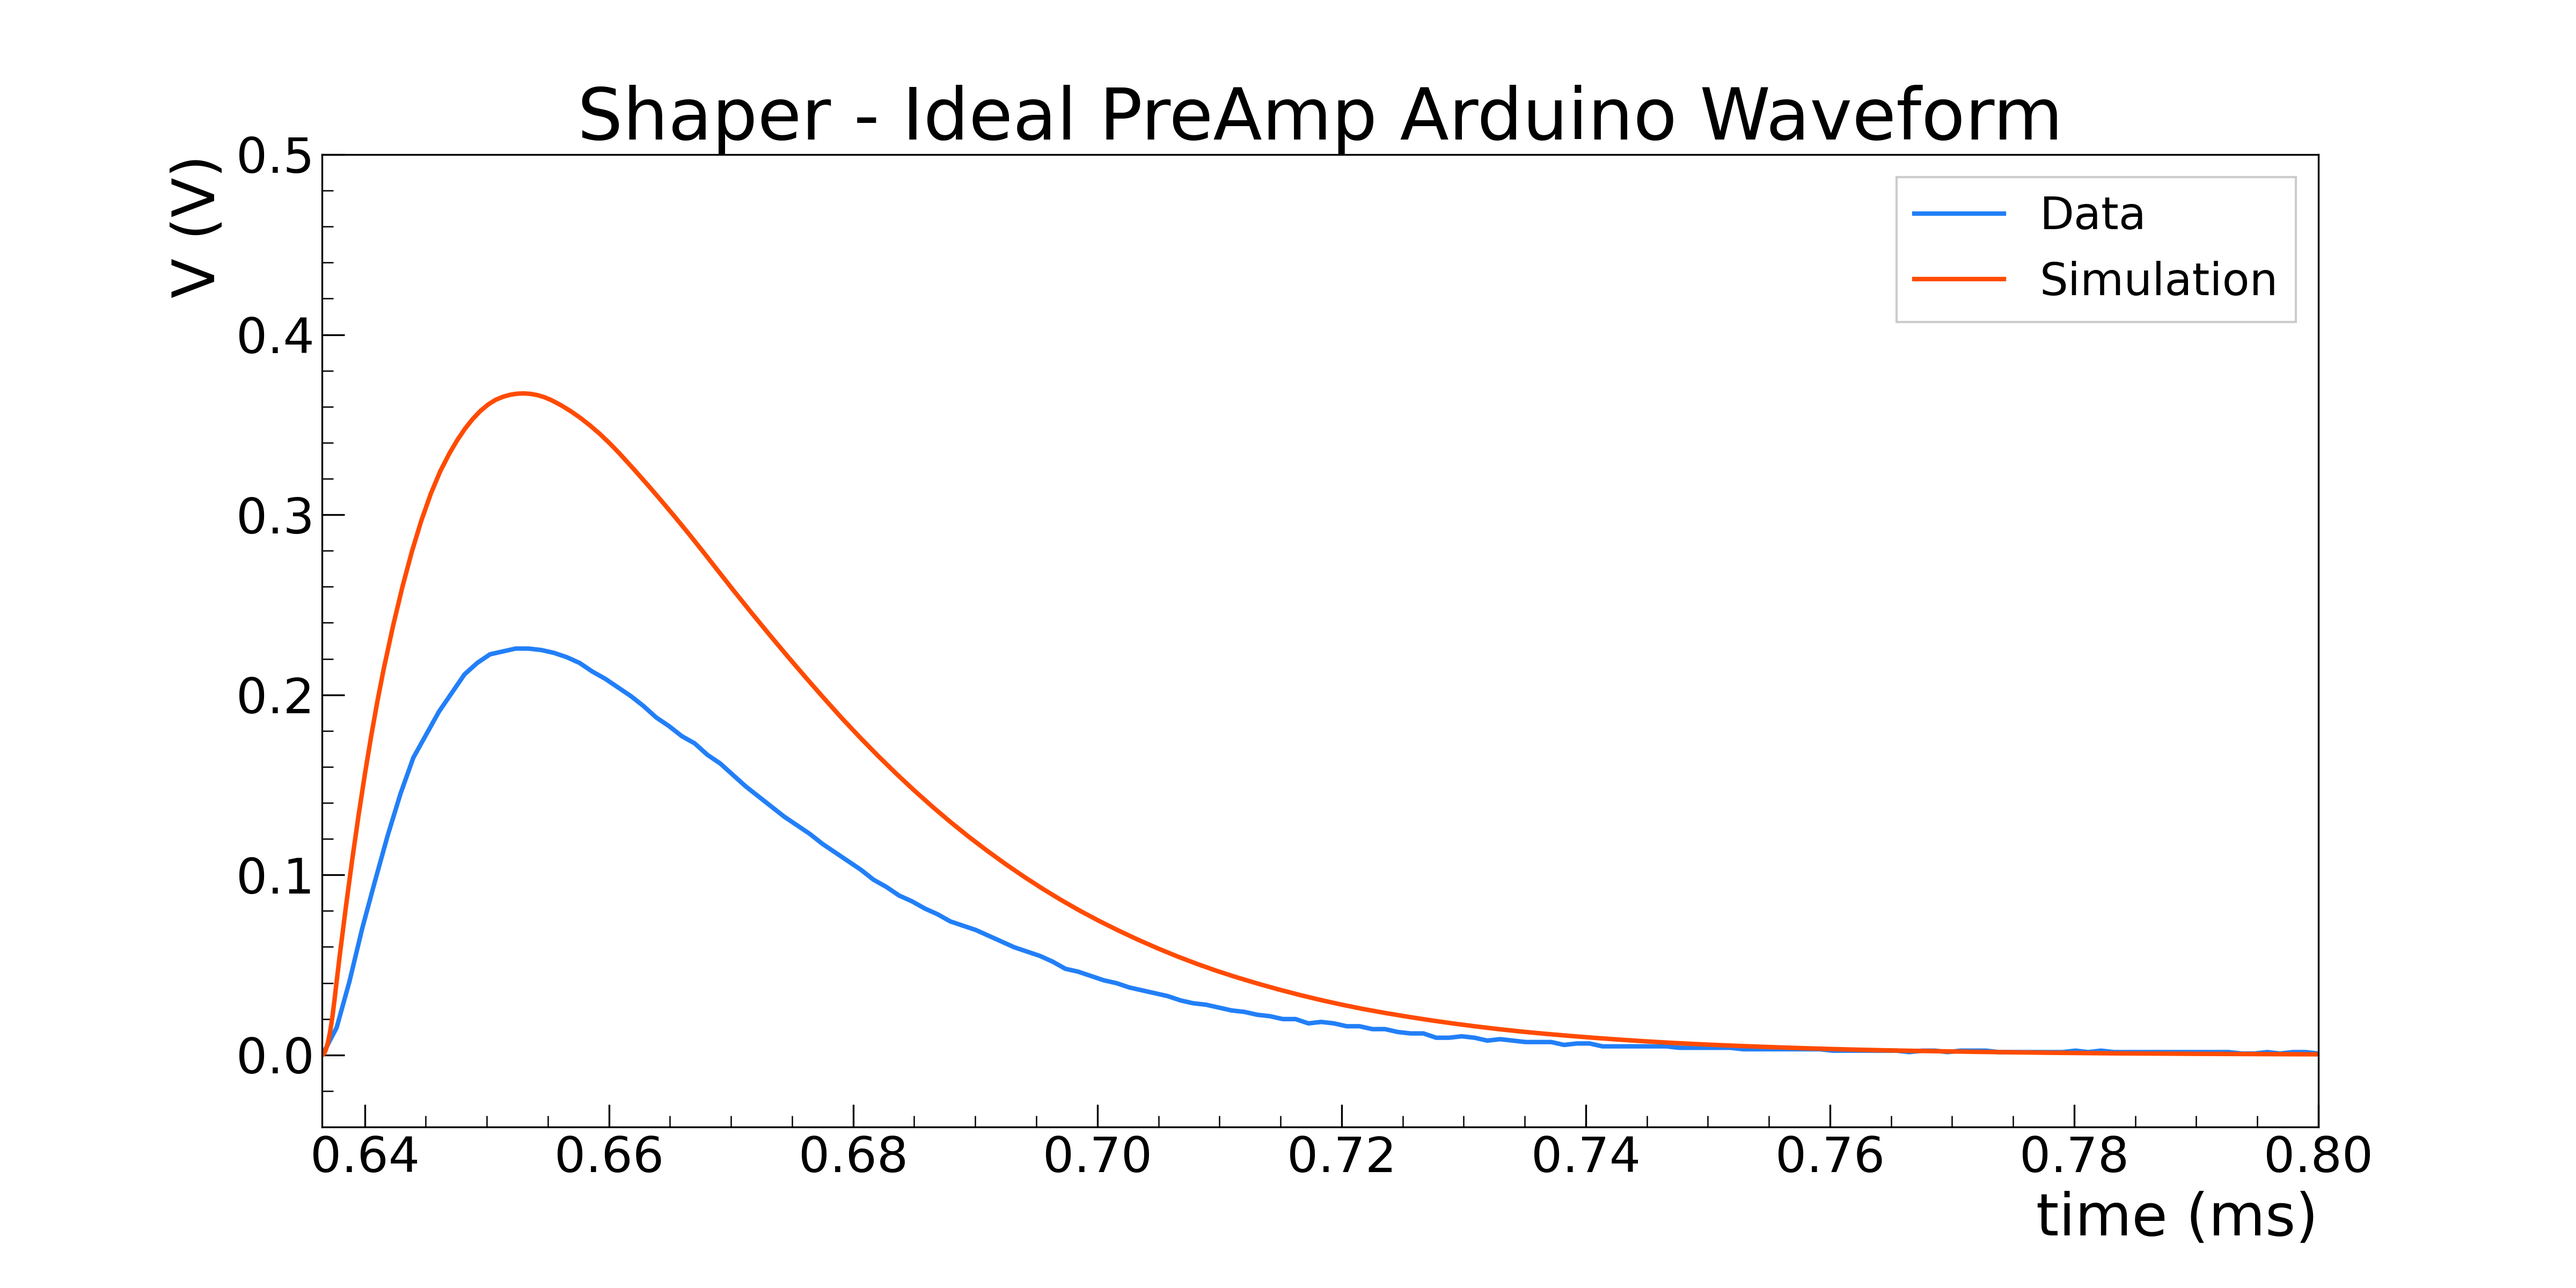
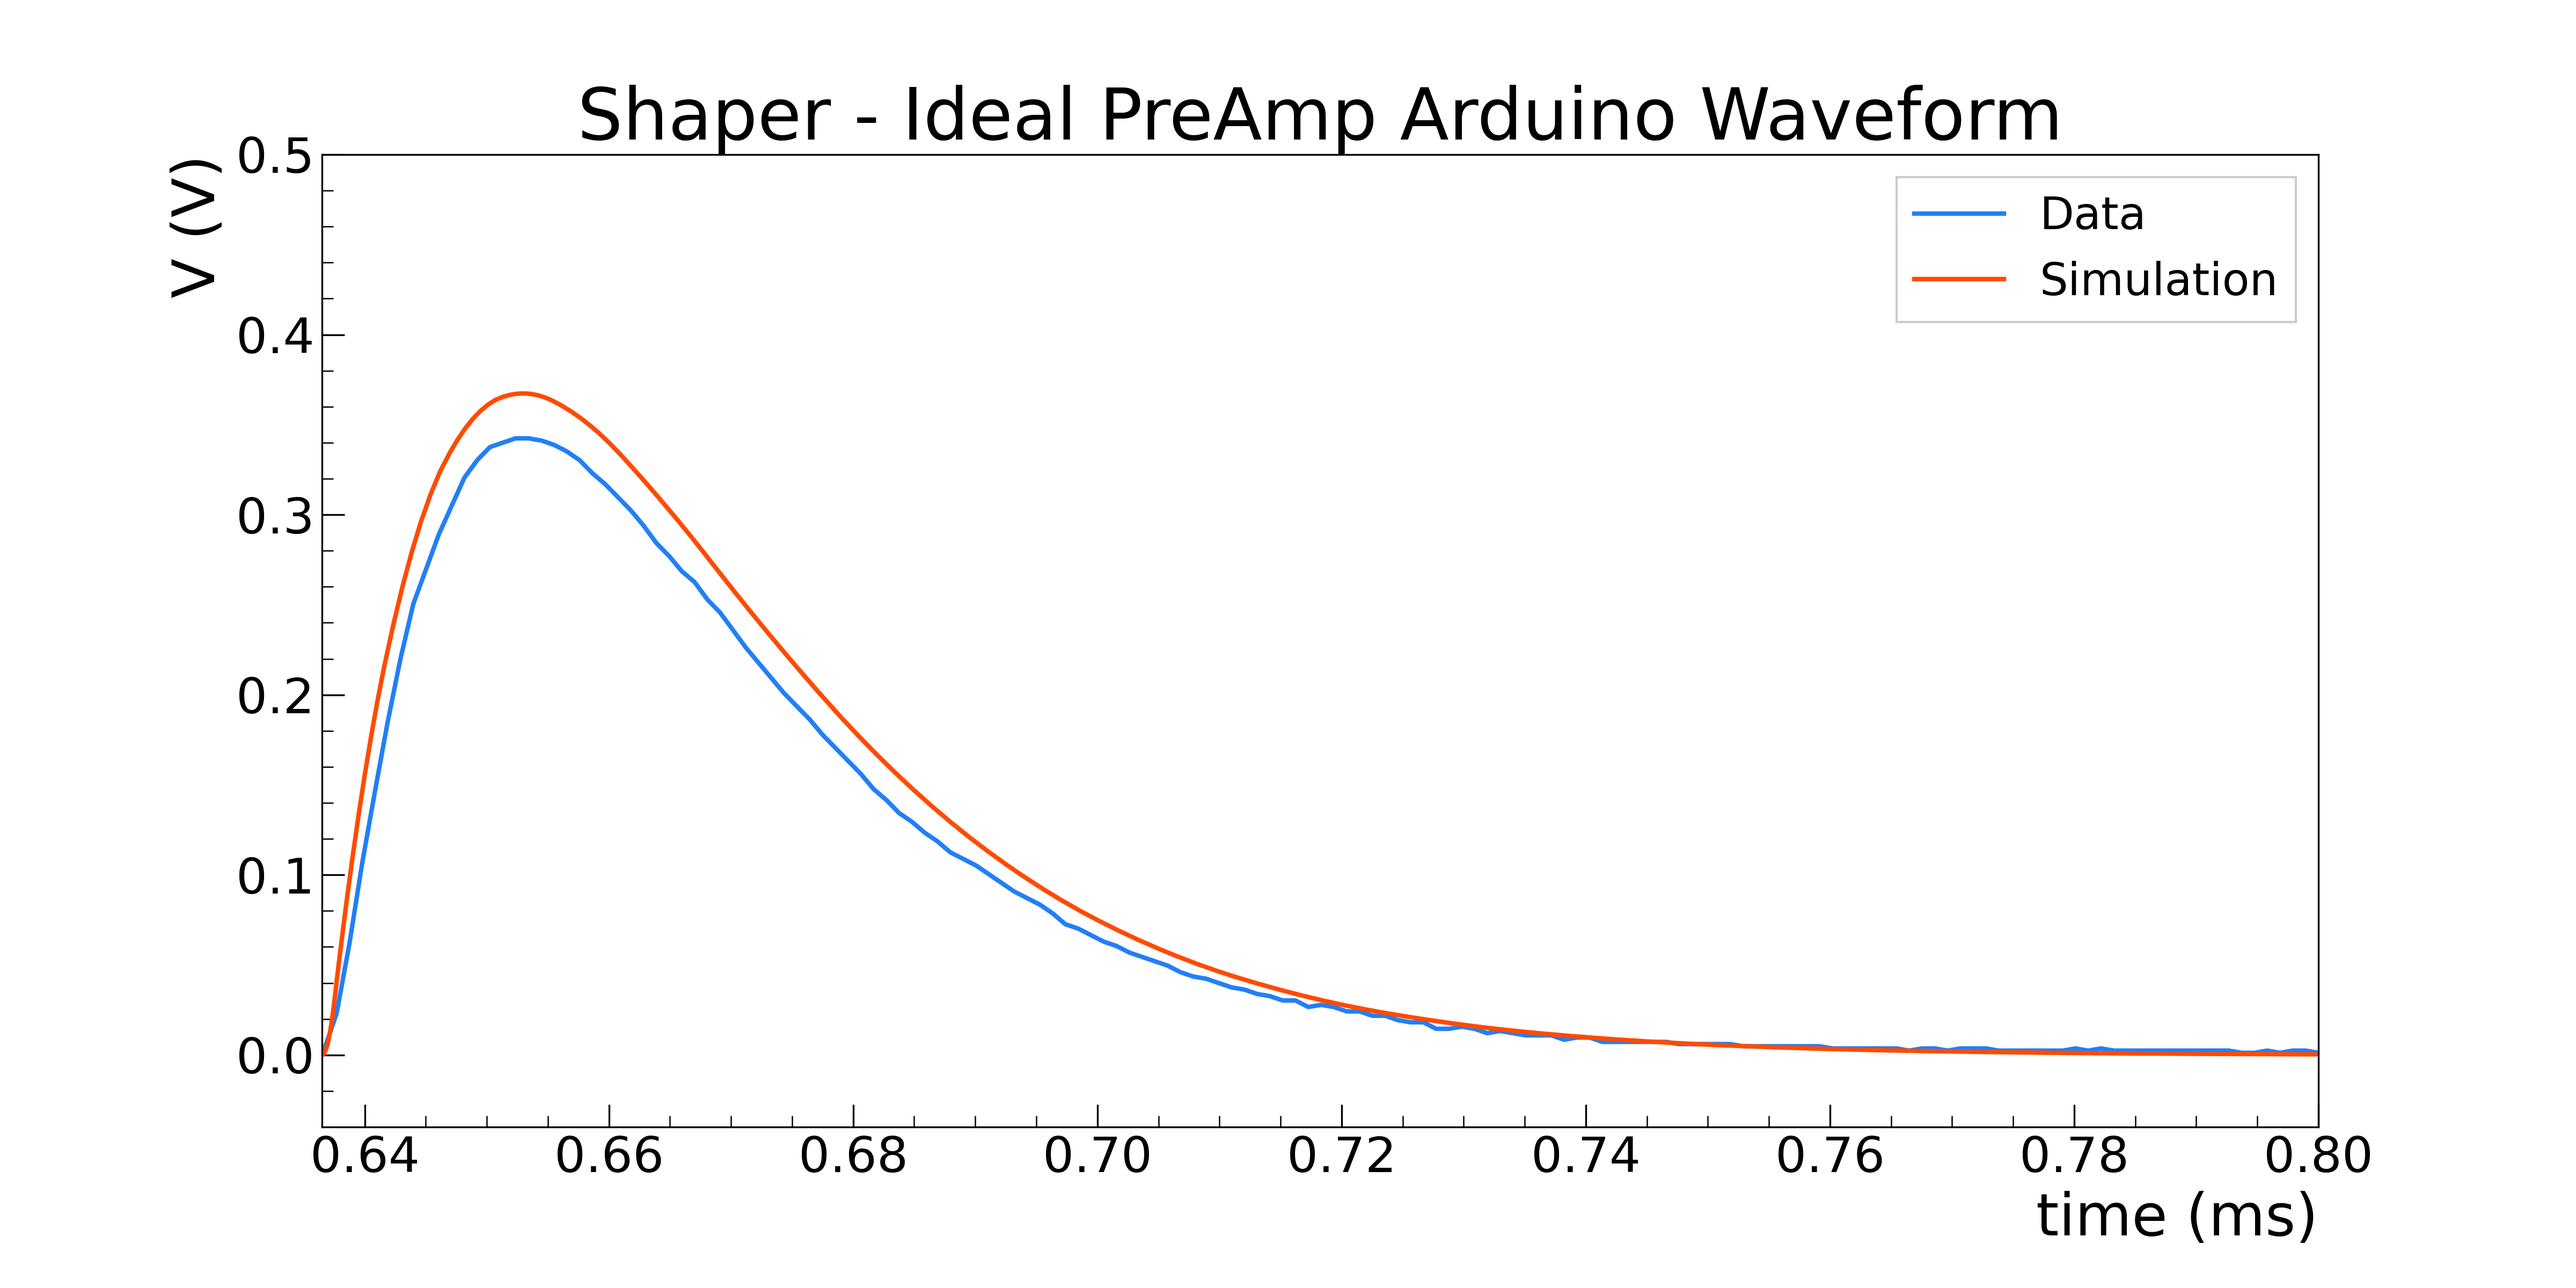
Updated Shaper - Analysis

diff --git a/CATENA ELETTRONICA/Python/Shaper_Analysis_Code.py b/CATENA ELETTRONICA/Python/Shaper_Analysis_Code.py
@@ -694,7 +694,7 @@ def arduino_ideal_shaper_plot(data, sim):
     ax1.legend(loc = 'best', prop = {'size': 20}, ncol = 1, frameon = True, fancybox = False, framealpha = 1)
 
     # SAVE FIGURE
-    #fig.savefig('../Plots/Shaper/shaper_ideal_waveform.png', dpi = 300, facecolor = 'white')
+    #fig.savefig('../Plots/Shaper/shaper_ideal_waveform_newcalib.png', dpi = 300, facecolor = 'white')
 
     plt.show()
 
